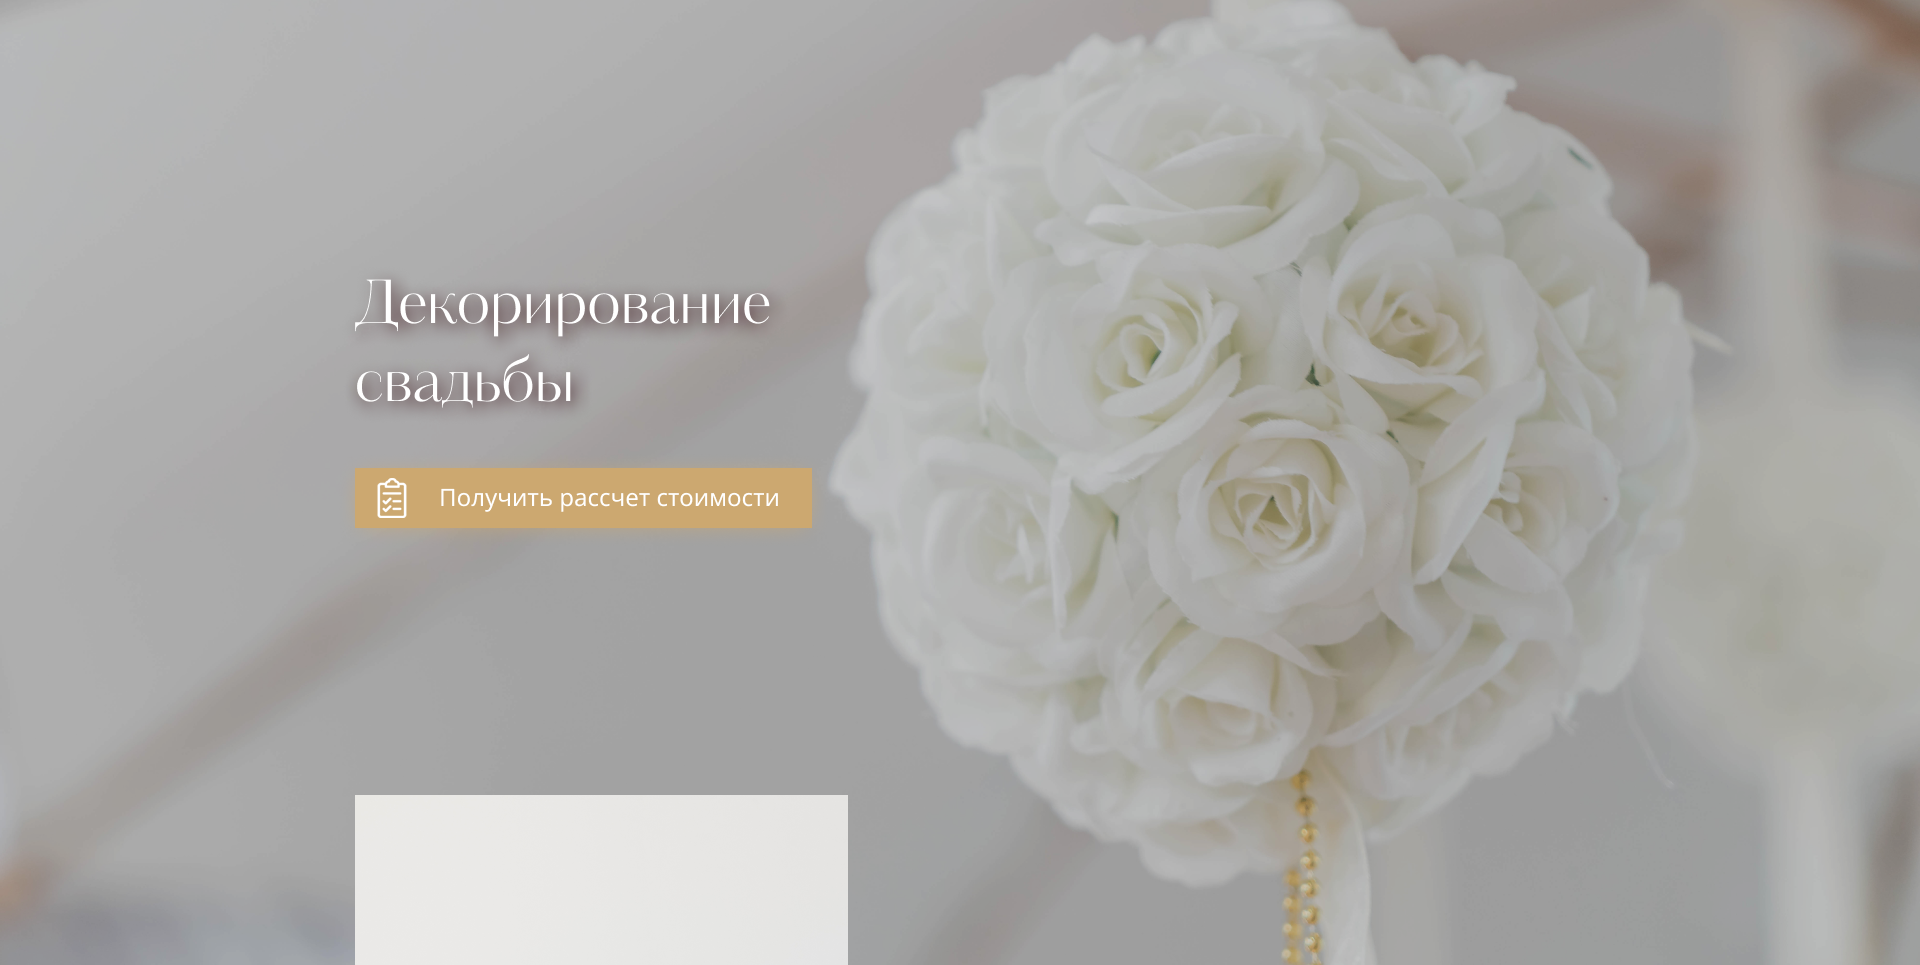
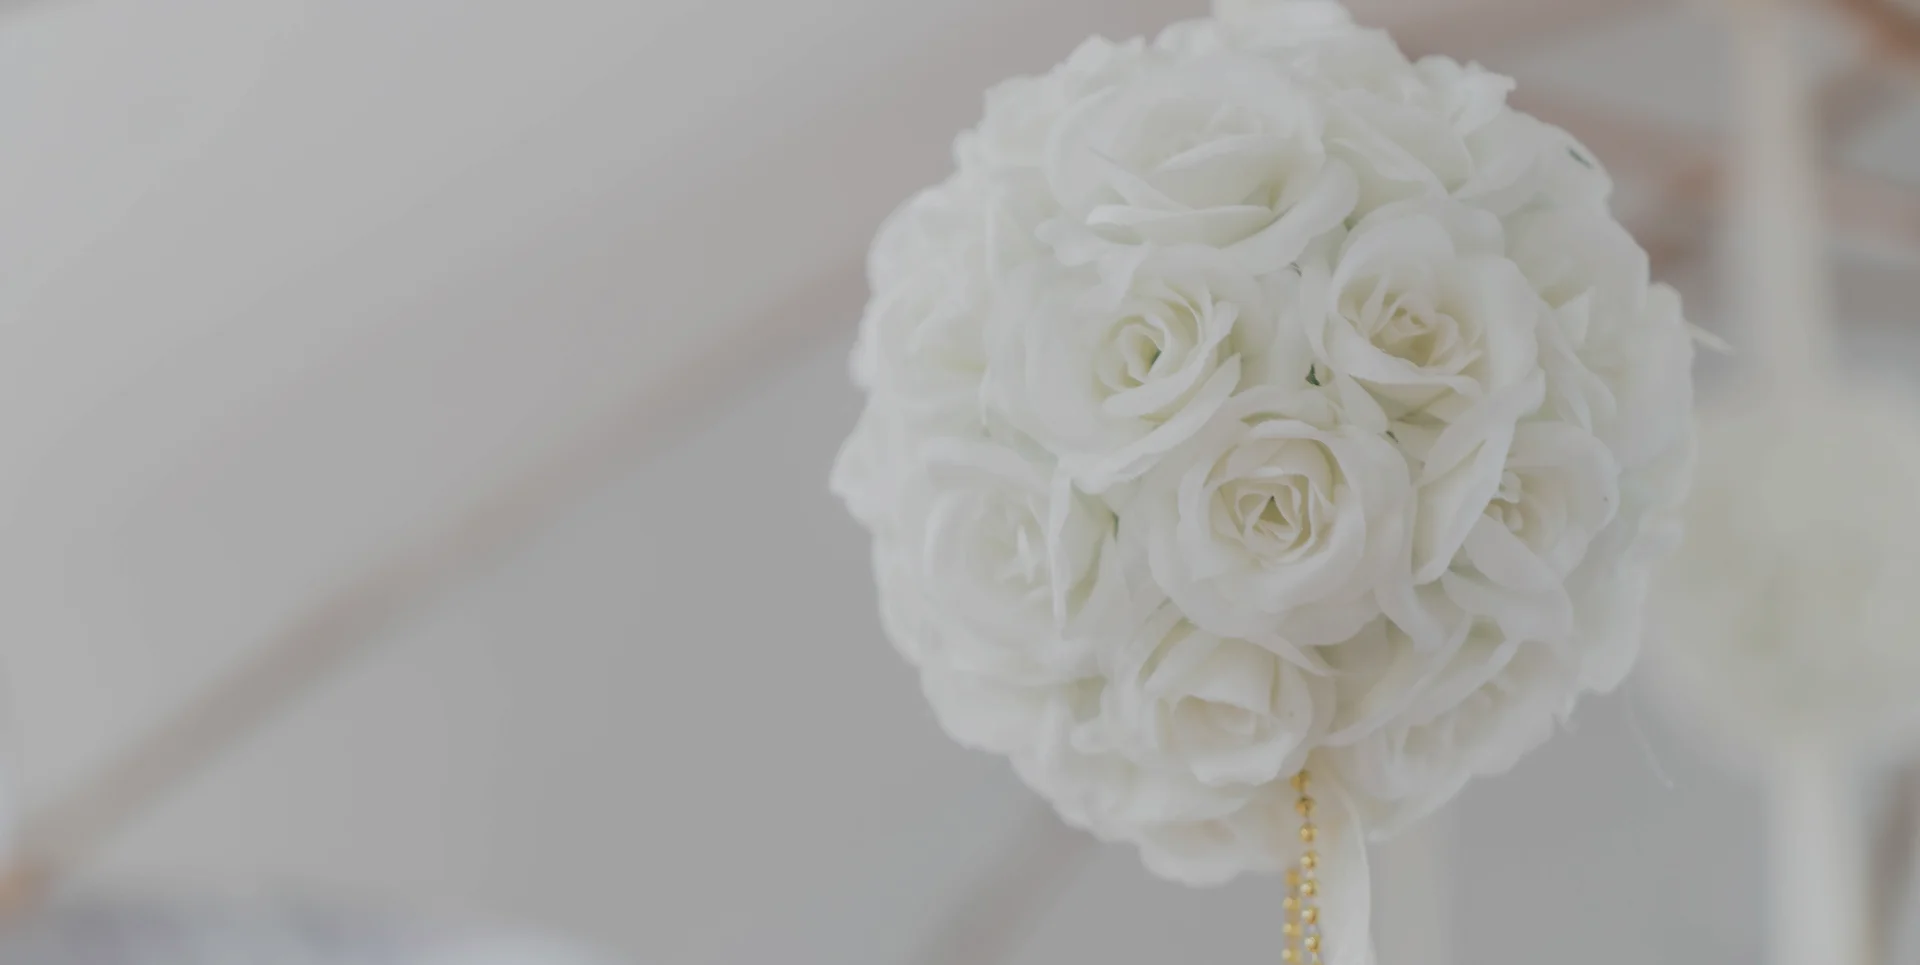
fix hero on decoration page

diff --git a/decoration.html b/decoration.html
@@ -9,14 +9,14 @@
    </head>
    <body>
       <main>
-         <section class="decoration-hero" style="background-color: #000">
+         <section class="decoration-hero">
             <div class="decoration-hero__container container">
                <div class="decoration-hero__title">Декорирование свадьбы</div>
                <a href="#" class="decoration-hero__button button">Получить рассчет стоимости</a>
                <picture class="decoration-hero__img">
-                  <!-- <source media="(min-width: 48em)" srcset="./src/img/decoration-hero.webp" />
+                  <source media="(min-width: 48em)" srcset="./src/img/decoration-hero.webp" />
                   <source media="(max-width: 48em)" srcset="./src/img/decoration-hero-mobile.webp" />
-                  <img src="./src/img/decoration-hero.webp" alt="" /> -->
+                  <img src="./src/img/decoration-hero.webp" alt="" />
                </picture>
             </div>
          </section>
